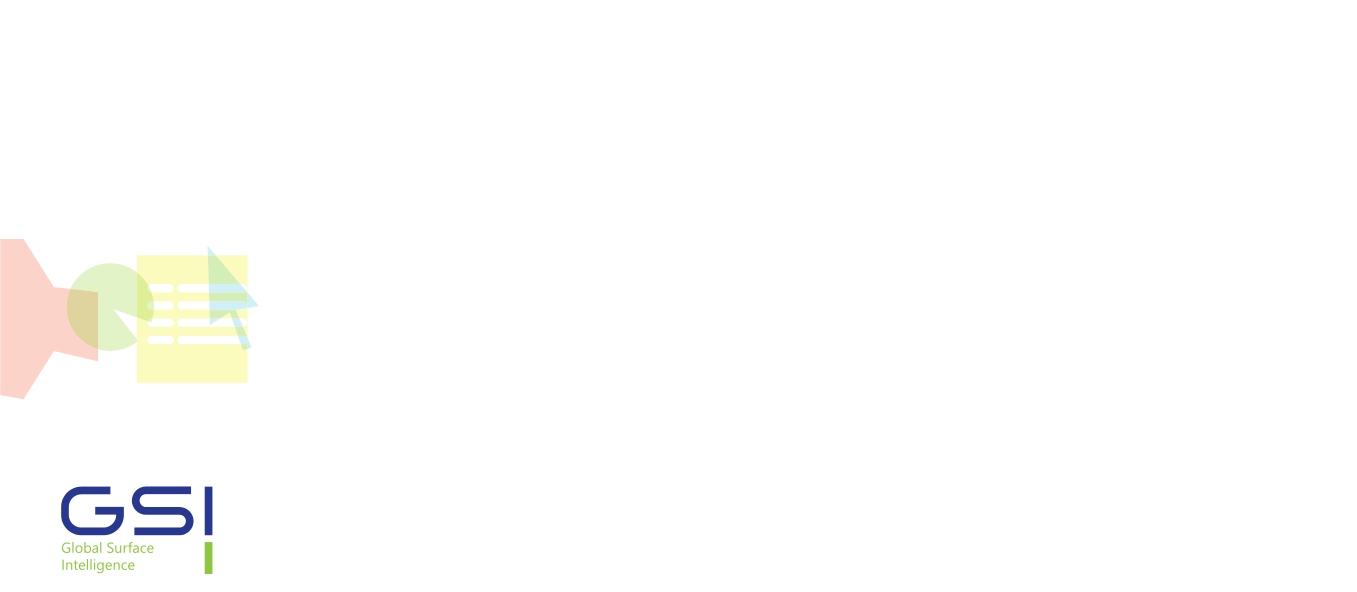
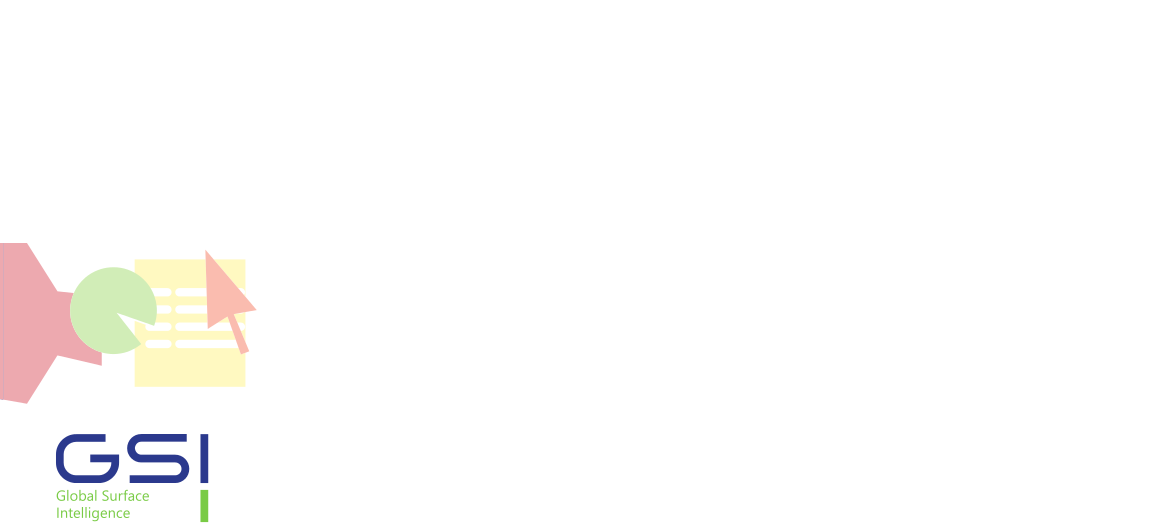
update design

Changed region(s): [[0.0, 0.391, 0.215, 0.7519], [0.0307, 0.812, 0.1843, 0.9925]]

diff --git a/src/templates/base_registrations.html b/src/templates/base_registrations.html
@@ -42,7 +42,7 @@
         <div class="row">
             <div class="col-md-4">
                 <div class="row col-md-4 margin-top-100 left">
-                    <img src="{% static 'img/GSIlogo-big.jpg' %}" alt="GSi Logo" />
+                    <img src="{% static 'img/GSIlogo-big.png' %}" alt="GSi Logo" />
                 </div>
             </div>
             

diff --git a/src/customers/views.py b/src/customers/views.py
@@ -1100,7 +1100,7 @@ def customer_section(request):
     # polygon = ''
     # coord = []
     name_dataset = ''
-    cur_attribute = ''
+    attribute = ''
     units = ''
     
     # default GEOTIFF coordinates
